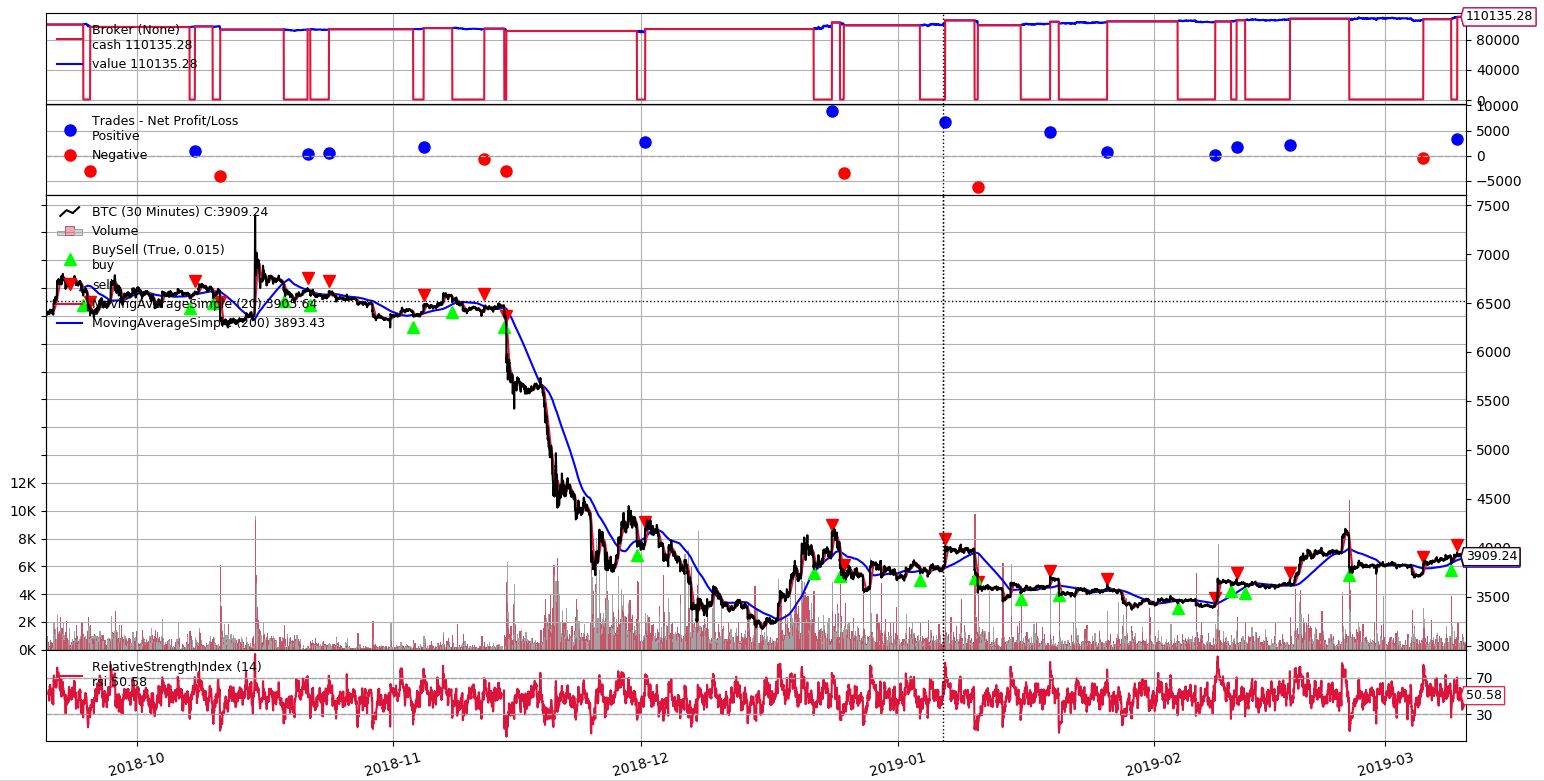
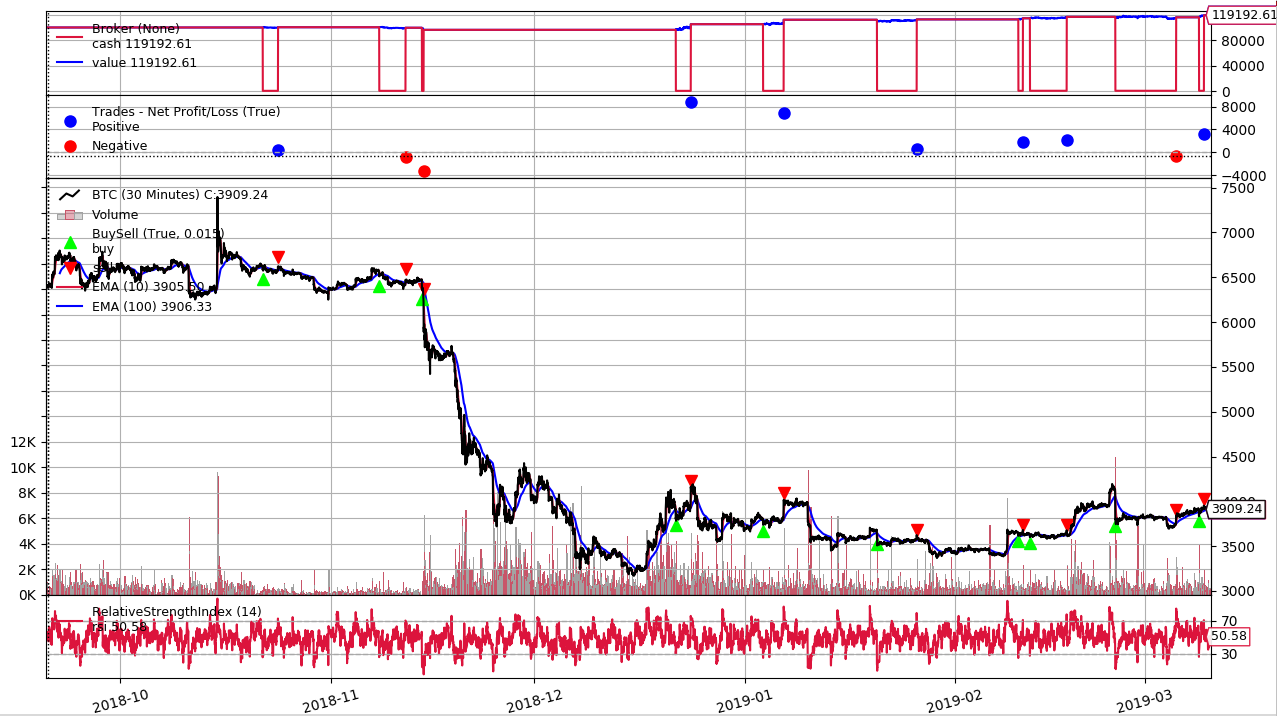
Updating strategy and documentation

diff --git a/strategies/basic_rsi.py b/strategies/basic_rsi.py
@@ -3,18 +3,21 @@
 import backtrader as bt
 
 from config import ENV, PRODUCTION
-from indicators.macd_hist import MACDHistSMA
-from indicators.stoch_rsi import StochRSI
 from strategies.base import StrategyBase
 
 
 class BasicRSI(StrategyBase):
+    params = dict(
+        period_ema_fast=10,
+        period_ema_slow=100
+    )
+
     def __init__(self):
         StrategyBase.__init__(self)
-        self.log("Using StochRSI strategy")
+        self.log("Using RSI/EMA strategy")
 
-        self.sma_fast = bt.indicators.MovingAverageSimple(self.data0.close, period=20)
-        self.sma_slow = bt.indicators.MovingAverageSimple(self.data0.close, period=200)
+        self.ema_fast = bt.indicators.EMA(period=self.p.period_ema_fast)
+        self.ema_slow = bt.indicators.EMA(period=self.p.period_ema_slow)
         self.rsi = bt.indicators.RelativeStrengthIndex()
 
         self.profit = 0
@@ -27,11 +30,10 @@ class BasicRSI(StrategyBase):
     def next(self):
         self.update_indicators()
 
-        if self.status != "LIVE" and ENV == PRODUCTION:
-            self.log("%s - $%.2f" % (self.status, self.data0.close[0]))
+        if self.status != "LIVE" and ENV == PRODUCTION:  # waiting for live status in production
             return
 
-        if self.order:
+        if self.order:  # waiting for pending order
             return
 
         # stop Loss
@@ -40,7 +42,7 @@ class BasicRSI(StrategyBase):
             self.short()
 
         if self.last_operation != "BUY":
-            if self.rsi < 30 and self.sma_fast > self.sma_slow:
+            if self.rsi < 30 and self.ema_fast > self.ema_slow:
                 self.long()
 
         if self.last_operation != "SELL":

diff --git a/main.py b/main.py
@@ -74,7 +74,7 @@ def main():
         cerebro.resampledata(data, timeframe=bt.TimeFrame.Minutes, compression=30)
 
         broker = cerebro.getbroker()
-        broker.setcommission(commission=0.001, name=COIN_TARGET)
+        broker.setcommission(commission=0.001, name=COIN_TARGET)  # Simulating exchange fee
         broker.setcash(100000.0)
         cerebro.addsizer(FullMoney)
 
@@ -86,14 +86,15 @@ def main():
     # Include Strategy
     cerebro.addstrategy(BasicRSI)
 
-    # Print analyzers - results
+    # Starting backtrader bot
     initial_value = cerebro.broker.getvalue()
     print('Starting Portfolio Value: %.2f' % initial_value)
     result = cerebro.run()
+
+    # Print analyzers - results
     final_value = cerebro.broker.getvalue()
     print('Final Portfolio Value: %.2f' % final_value)
     print('Profit %.3f%%' % ((final_value - initial_value) / initial_value * 100))
-
     print_trade_analysis(result[0].analyzers.ta.get_analysis())
     print_sqn(result[0].analyzers.sqn.get_analysis())
 

diff --git a/strategies/base.py b/strategies/base.py
@@ -55,7 +55,7 @@ class StrategyBase(bt.Strategy):
             return self.buy()
 
         cash, value = self.broker.get_wallet_balance(COIN_REFER)
-        amount = (value / price) * 0.99
+        amount = (value / price) * 0.99  # Workaround to avoid precision issues
         self.log("Buy ordered: $%.2f. Amount %.6f %s. Ballance $%.2f USDT" % (self.data0.close[0],
                                                                               amount, COIN_TARGET, value), True)
         return self.buy(size=amount)

diff --git a/README.md b/README.md
@@ -27,14 +27,13 @@ Start application
 
 ```
 Starting Portfolio Value: 100000.00
-Final Portfolio Value: 110135.28
+Final Portfolio Value: 119192.61
 
-Profit 10.135%
+Profit 19.193%
 Trade Analysis Results:
                Total Open     Total Closed   Total Won      Total Lost     
-               0              20             12             8              
+               0              10             7              3              
                Strike Rate    Win Streak     Losing Streak  PnL Net        
-               1              3              2              10135.28       
-SQN: 0.64
-
+               1              5              2              19192.61       
+SQN: 1.75
 ```
